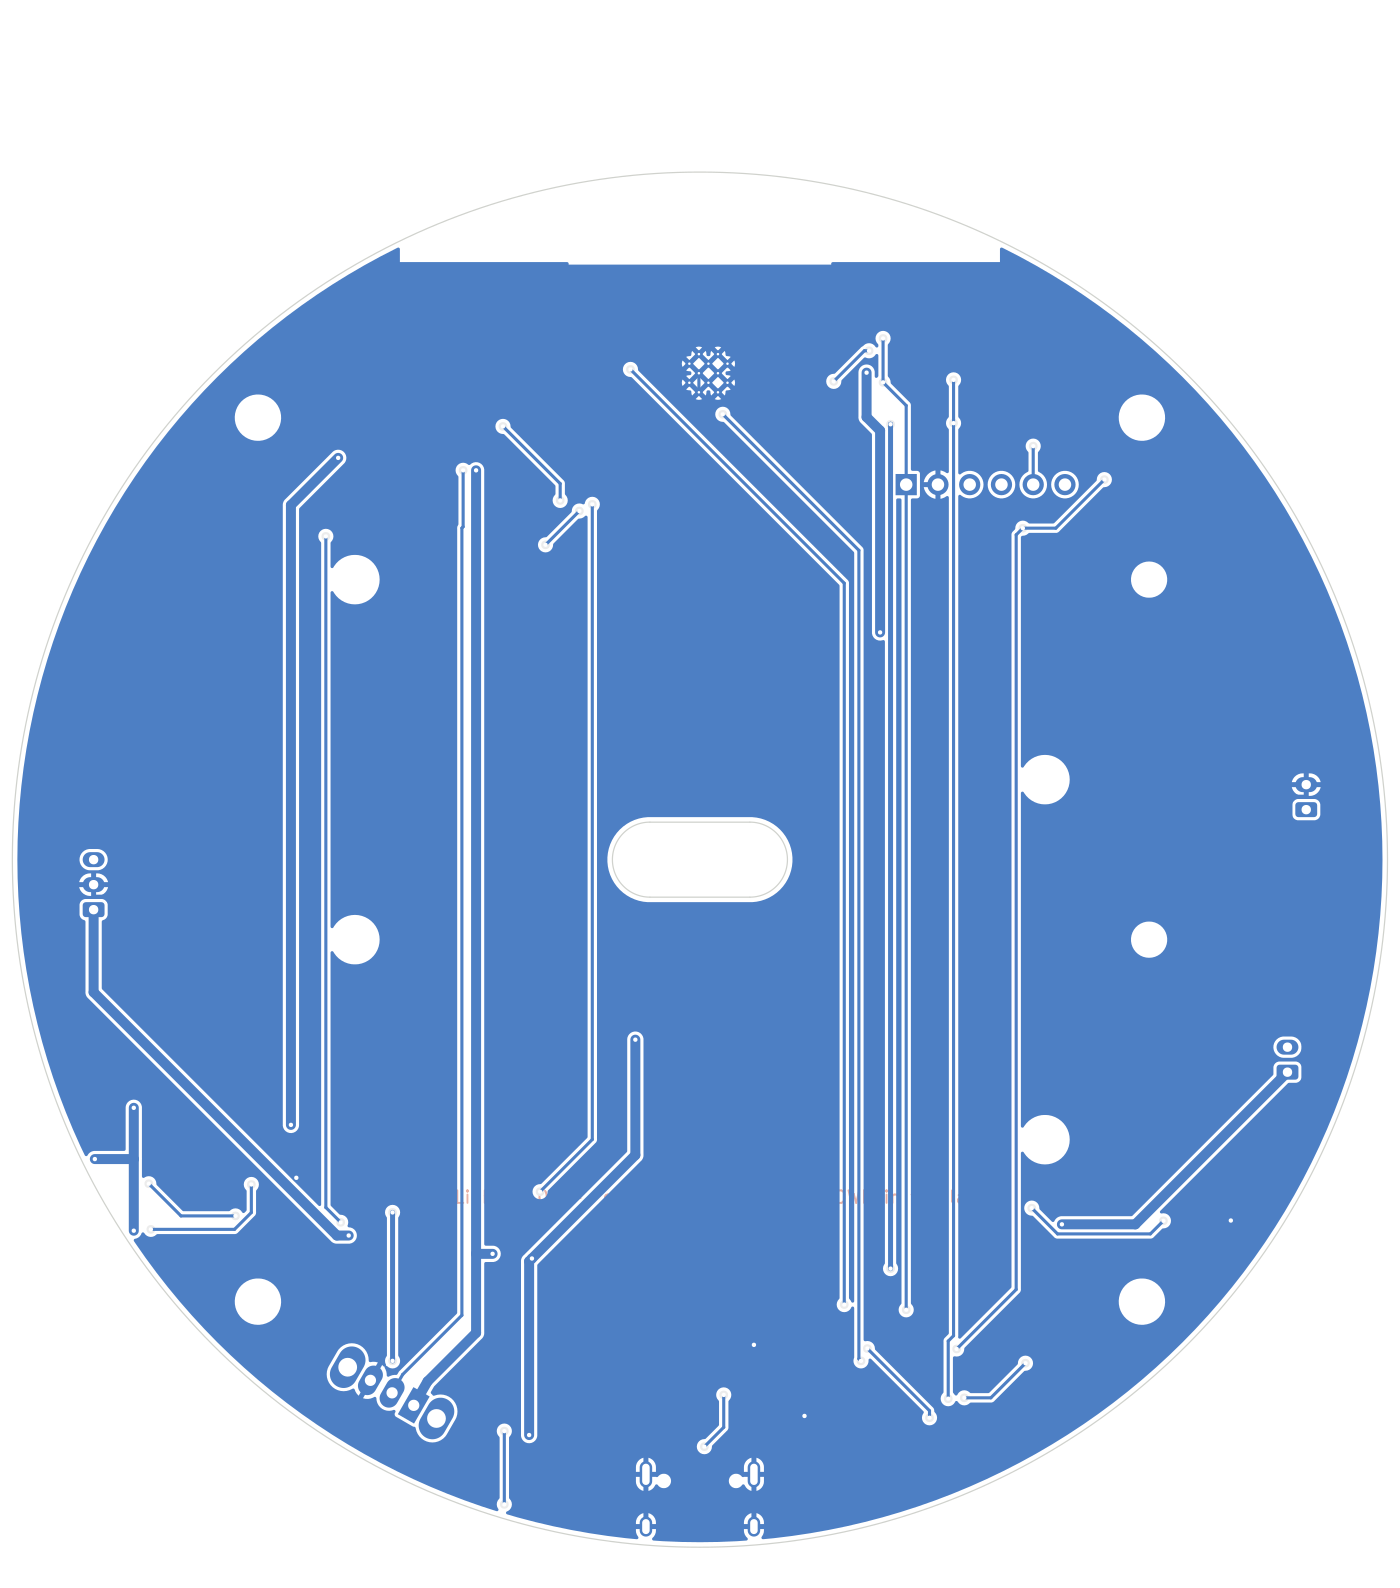
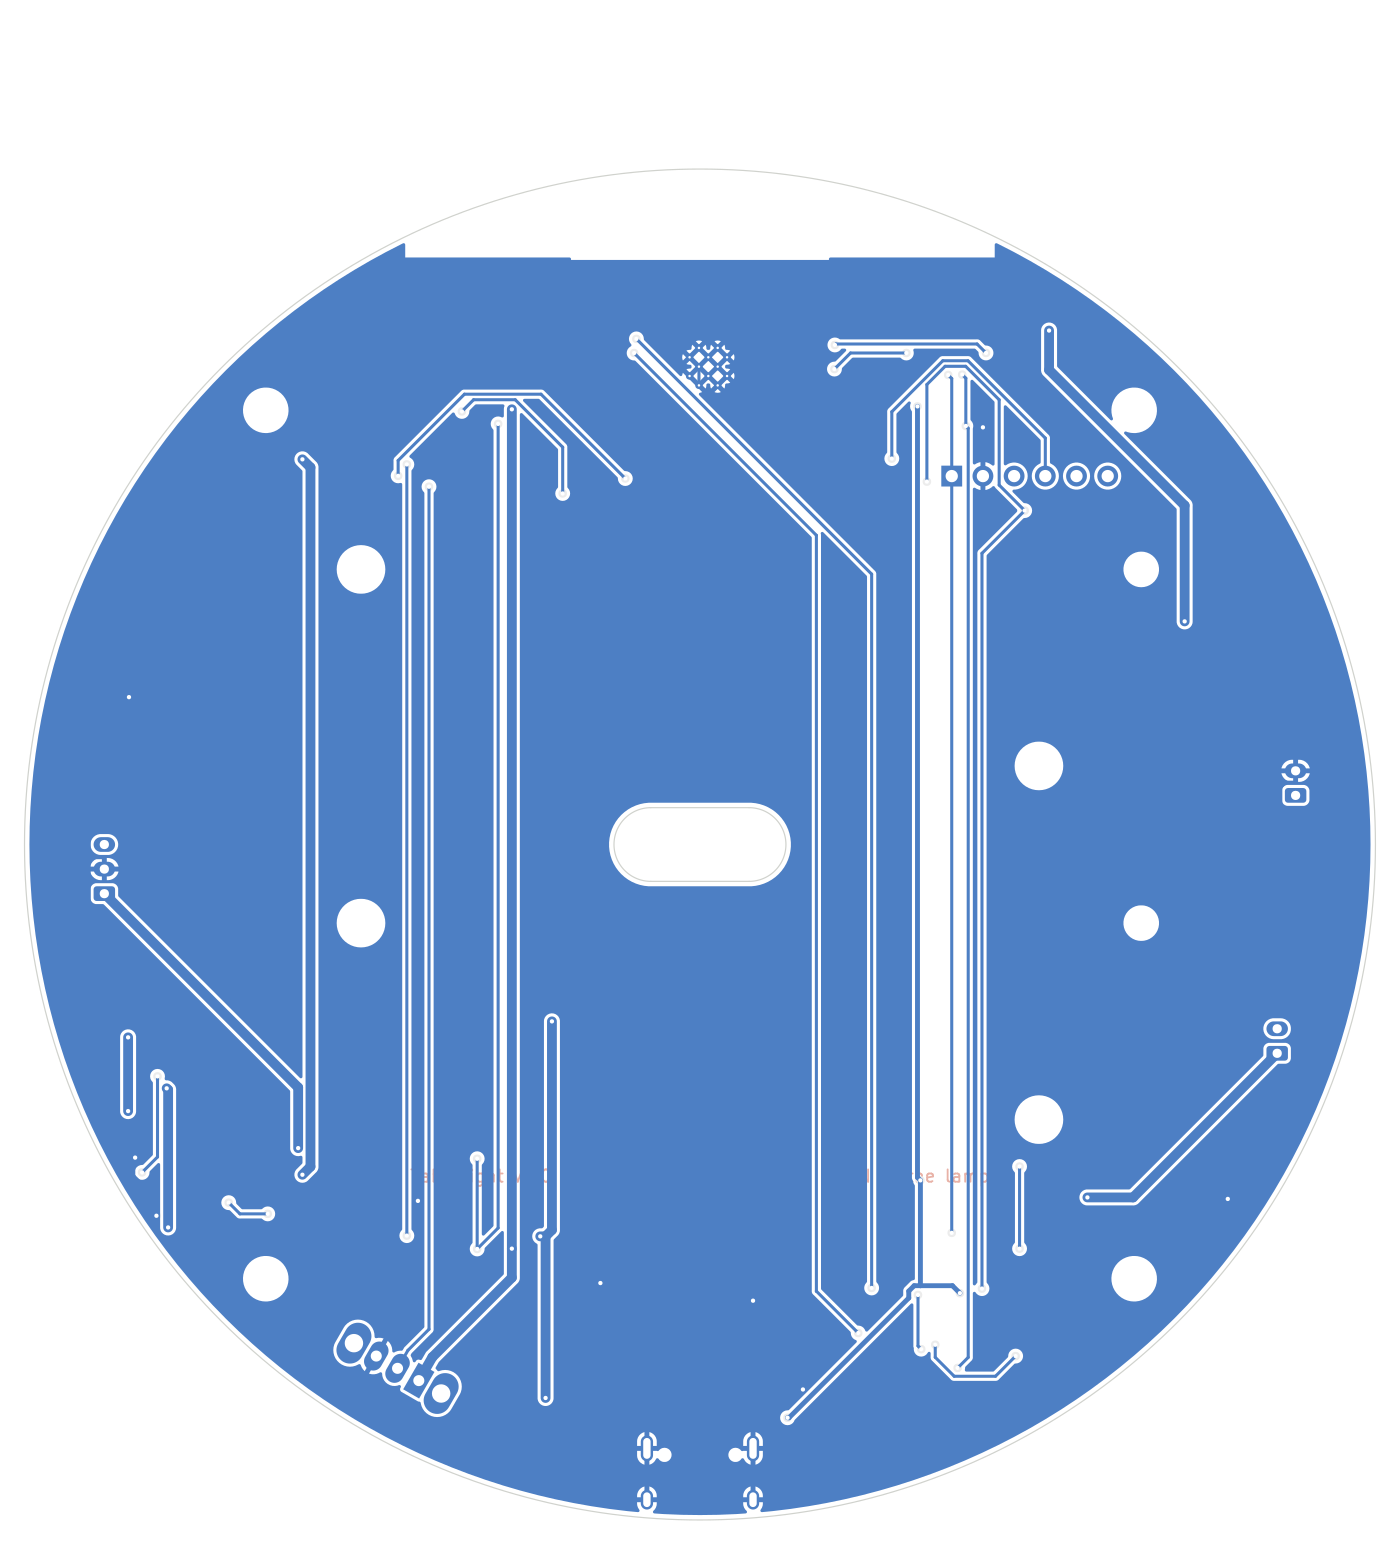
Board generator: escape stubs for fine-pitch power/USB pads, fixed wiring in DSN
Claude-Session: https://claude.ai/code/session_019pemffm2ynpntBzdkVem8C

diff --git a/hardware/pcb/build_board.py b/hardware/pcb/build_board.py
@@ -303,6 +303,67 @@ def setup_rules(board):
     nc.SetViaDrill(FromMM(VIA_DRILL))
 
 
+def _rot(vx, vy, deg):
+    a = math.radians(deg)
+    return (vx * math.cos(a) - vy * math.sin(a), vx * math.sin(a) + vy * math.cos(a))
+
+
+def add_track(board, net, x1, y1, x2, y2, width, layer=pcbnew.F_Cu):
+    t = pcbnew.PCB_TRACK(board)
+    t.SetStart(mm(x1, y1)); t.SetEnd(mm(x2, y2))
+    t.SetWidth(FromMM(width)); t.SetLayer(layer); t.SetNet(net)
+    board.Add(t)
+    return t
+
+
+def add_escape_stubs(board):
+    """Pre-routed narrow stubs out of fine-pitch pads whose nets demand wide tracks.
+    The autorouter cannot land a 0.8 mm track on a 0.6 mm SOT-23 pad (or a 0.4 mm track on a
+    0.3 mm USB-C data pad) without violating clearance to the neighbouring pads; it can attach
+    to the end of a stub. KiCad exports existing tracks to the DSN as fixed wiring."""
+    n = 0
+    for fp in board.GetFootprints():
+        name = fp.GetFPID().GetLibItemName().__str__() if hasattr(fp.GetFPID().GetLibItemName(), "__str__") else str(fp.GetFPID().GetLibItemName())
+        rot = fp.GetOrientationDegrees()
+        fx, fy = fp.GetPosition().x / 1e6, fp.GetPosition().y / 1e6
+        if name.startswith("SOT-23"):
+            for pad in fp.Pads():
+                if pad.GetNet() is None or pad.GetNetname() not in POWER_NETS:
+                    continue
+                px, py = pad.GetPosition().x / 1e6, pad.GetPosition().y / 1e6
+                # local x of the pad tells which side of the body it is on
+                lx, ly = _rot(px - fx, py - fy, -rot)
+                dx, dy = _rot(1.0 if lx > 0 else -1.0, 0.0, rot)
+                add_track(board, pad.GetNet(), px, py, px + 1.4 * dx, py + 1.4 * dy, 0.35)
+                n += 1
+        if fp.GetReference() == "J1":
+            for pad in fp.Pads():
+                if pad.GetNumber() in ("A6", "A7", "B6", "B7"):
+                    px, py = pad.GetPosition().x / 1e6, pad.GetPosition().y / 1e6
+                    dx, dy = _rot(0.0, -1.0, rot)          # away from the connector, toward the board centre
+                    add_track(board, pad.GetNet(), px, py, px + 1.2 * dx, py + 1.2 * dy, 0.25)
+                    n += 1
+    print(f"escape stubs: {n}")
+
+
+def dedupe_tracks(board):
+    """Drop exact duplicate track segments (the SES echoes the fixed pre-routed stubs)."""
+    seen, dup = set(), []
+    for t in board.GetTracks():
+        if t.GetClass() != "PCB_TRACK":
+            continue
+        a, b = t.GetStart(), t.GetEnd()
+        key = (t.GetLayer(), t.GetWidth(), t.GetNetCode(), min((a.x, a.y), (b.x, b.y)), max((a.x, a.y), (b.x, b.y)))
+        if key in seen:
+            dup.append(t)
+        else:
+            seen.add(key)
+    for t in dup:
+        board.Remove(t)
+    if dup:
+        print(f"removed {len(dup)} duplicate track segments")
+
+
 def build_placed_board():
     parts, _ = load_circuit()
     board = pcbnew.BOARD()
@@ -329,6 +390,7 @@ def build_placed_board():
         cx, cy = polar(P["pcb_hole_r"], 45 + 90 * i)
         pts = [(cx + 4.0 * math.cos(math.radians(t)), cy + 4.0 * math.sin(math.radians(t))) for t in range(0, 360, 15)]
         add_rule_area(board, pts, [pcbnew.F_Cu], f"screw_head_H{i+1}")
+    add_escape_stubs(board)
     # silkscreen
     add_text(board, "TableLight v1.0", -32.0, -26.8, size=1.0)
     add_text(board, "github.com/jonny190/TableLight", 0, 26.6, size=0.9)
@@ -364,6 +426,8 @@ def rewrite_dsn_classes(dsn_path):
     new_power = f'\n    (class power {" ".join(q(n) for n in power)}\n      (circuit{circuit})\n      (rule (width {TRACK_POWER*unit:g}) (clearance {clearance}))\n    )'
     new_vbus = f'\n    (class vbus {" ".join(q(n) for n in vbus)}\n      (circuit{circuit})\n      (rule (width {TRACK_VBUS*unit:g}) (clearance {clearance}))\n    )'
     txt = txt[:m.start()] + new_default + new_power + new_vbus + txt[m.end():]
+    # pre-routed escape stubs must survive: KiCad exports them as (type route); make them fixed
+    txt = re.sub(r'\((wire \(path [^)]*\)\(net [^)]*\)\(type )route\)', r'(\1fix)', txt)
     open(dsn_path, "w").write(txt)
     return keep, power
 
@@ -441,6 +505,7 @@ def import_ses(board, ses_path):
                 v.SetLayerPair(pcbnew.F_Cu, pcbnew.B_Cu); v.SetNet(net)
                 board.Add(v); n_vias += 1
     print(f"SES import: {n_tracks} track segments, {n_vias} vias")
+    dedupe_tracks(board)
 
 
 def autoroute(board, workdir, passes=60, reuse=False):
